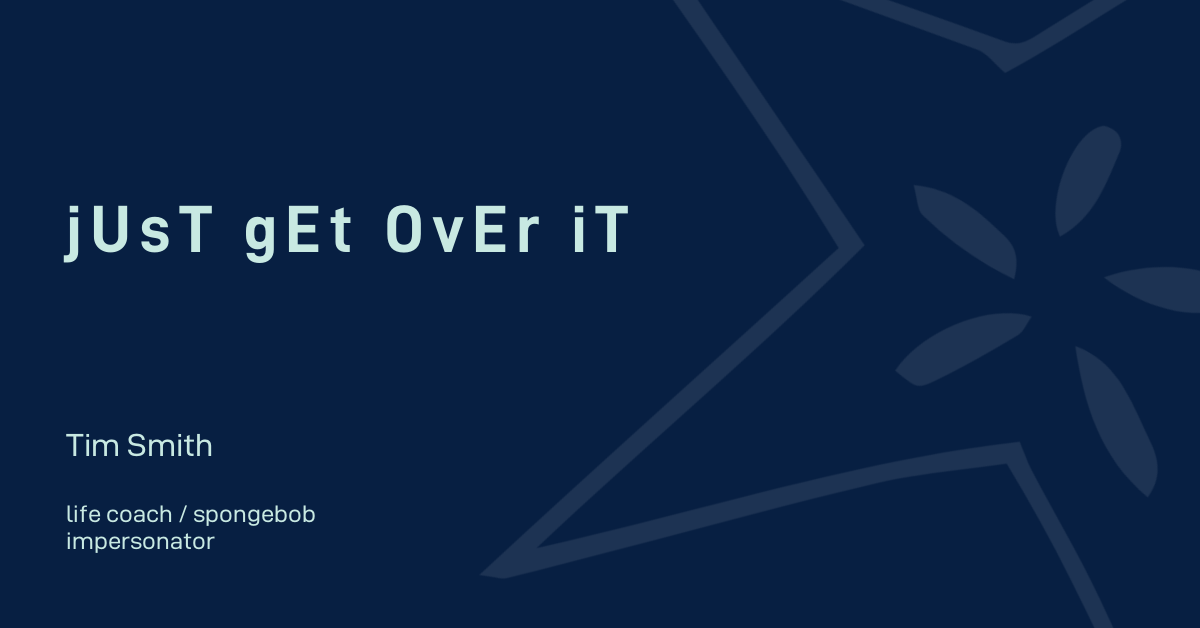
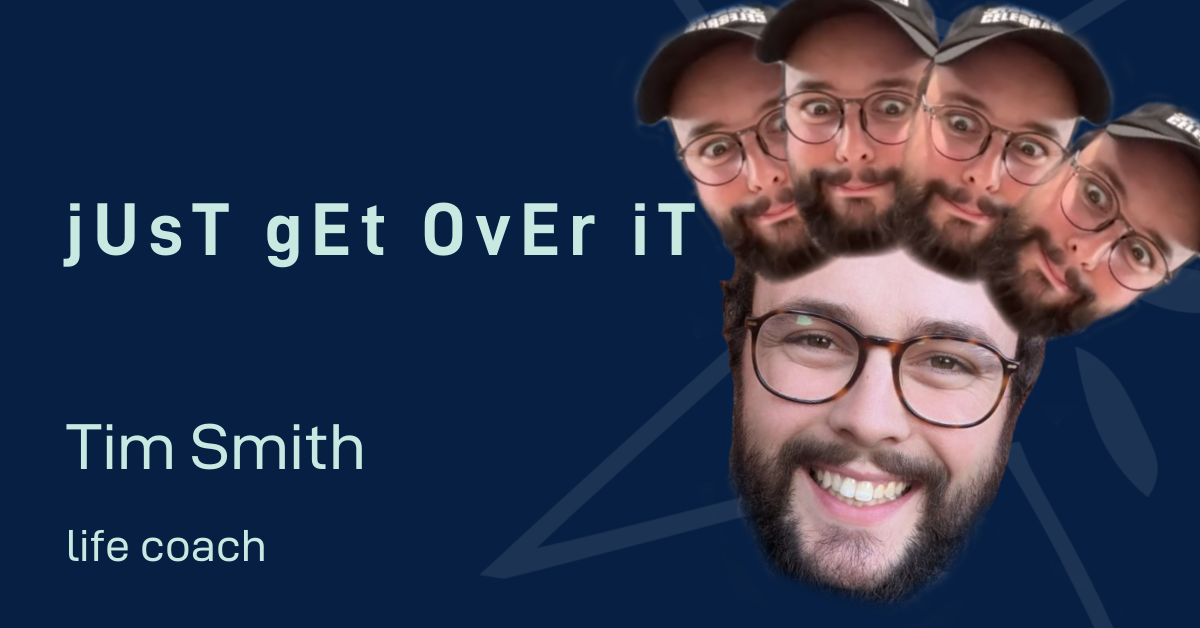
updated audio, images, clippy

diff --git a/client/src/pages/SongGenerate.js b/client/src/pages/SongGenerate.js
@@ -2,9 +2,7 @@ import axios from "axios";
 import { useState, useEffect } from "react";
 import { useParams } from "react-router-dom";
 import "./SongGenerate.css";
-import chrisclip from "../images/chrisClippy.png";
 import advert from "../images/pillsAD.png";
-import errorSong from "../audio/myError.wav";
 import chrispills from "../audio/dmePills.mp3";
 
 export default function SongGenerate() {
@@ -38,14 +36,6 @@ export default function SongGenerate() {
     console.log(form);
   }
 
-  function play() {
-    new Audio(errorSong).play();
-  }
-
-  function play1() {
-    new Audio(chrispills).play1();
-  }
-
   return (
     <div>
       <div className="song-container">
@@ -67,16 +57,11 @@ export default function SongGenerate() {
         <button className="button" onClick={getSong}>
           Show me another Song
         </button>
+        <button className="help-button">Need help?</button>
       </div>
-      <div className="helper-container">
-        <button className="help-button">Do you need help?</button>
-      </div>
-      <div className="chrisclippy">
-        <img src={chrisclip} onClick={play} />
-      </div>
-      <div className="advert-container">
+      {/* <div className="advert-container">
         <img src={advert} onClick={play1} />
-      </div>
+      </div> */}
     </div>
   );
 }

diff --git a/client/src/App.js b/client/src/App.js
@@ -8,8 +8,18 @@ import logo from "./images/apollo-feed-placeholder.png";
 import homeicon from "./images/home.png";
 import feedicon from "./images/feed.png";
 import forumicon from "./images/forum.png";
+import chrisclip from "./images/chrisClippy.png";
+import errorSong from "./audio/myError.wav";
+import catchphrase from "./audio/uhm.mp3";
 
 export default function App() {
+  function playSong() {
+    new Audio(errorSong).play();
+  }
+  function playCatch() {
+    new Audio(catchphrase).play();
+  }
+
   return (
     <BrowserRouter>
       <div className="App">
@@ -36,6 +46,17 @@ export default function App() {
             </ul>
           </div>
         </header>
+        <div className="helper-container">
+          <div>
+            <img src={chrisclip} />
+            <button id="btn1" onClick={playCatch}>
+              Can you help?
+            </button>
+            <button id="btn2" onClick={playSong}>
+              Give me a song
+            </button>
+          </div>
+        </div>
         <Routes>
           <Route path="/home" element={<Home />} />
           <Route path="/feed" element={<SongGenerate />} />

diff --git a/client/src/App.css b/client/src/App.css
@@ -47,6 +47,58 @@ h1 {
   padding: 1rem 0 1.5rem 0;
 }
 
+.nav-container li {
+  position: relative;
+  background-color: #f1ca3b;
+  border-radius: 1.2rem;
+  width: 60px;
+  height: 50px;
+}
+
 .nav-container li a {
-  color: #f1ca3b;
+  display: flex;
+  align-items: center;
+  justify-content: center;
+  width: 100%;
+  height: 100%;
+}
+
+.nav-container li a img {
+  position: absolute;
+  top: 50%;
+  left: 50%;
+  transform: translate(-36%, -45%);
+  max-width: 100%;
+  max-height: 100%;
+}
+
+.helper-container {
+  position: absolute;
+  top: 22%;
+}
+
+.helper-container img {
+  position: fixed;
+  right: 0%;
+}
+
+.helper-container button {
+  font-weight: 500;
+  font-size: 1rem;
+  border: none;
+  border-radius: 1.5rem;
+  align-self: center;
+  background-color: #fcf7f8;
+}
+
+#btn1 {
+  position: fixed;
+  top: 48%;
+  right: 10%;
+}
+
+#btn2 {
+  position: fixed;
+  top: 50%;
+  right: 10%;
 }

diff --git a/client/src/pages/SongGenerate.css b/client/src/pages/SongGenerate.css
@@ -47,6 +47,18 @@ h2 {
   background-color: #f1ca3b;
 }
 
+.help-button {
+  color: #f6f9fa;
+  font-weight: 500;
+  font-size: 1rem;
+  border: none;
+  border-radius: 1.5rem;
+  height: 1.2rem;
+  width: 8%;
+  align-self: center;
+  background-color: #797568;
+}
+
 .flex-container {
   margin: 0 10px;
   display: flex;
